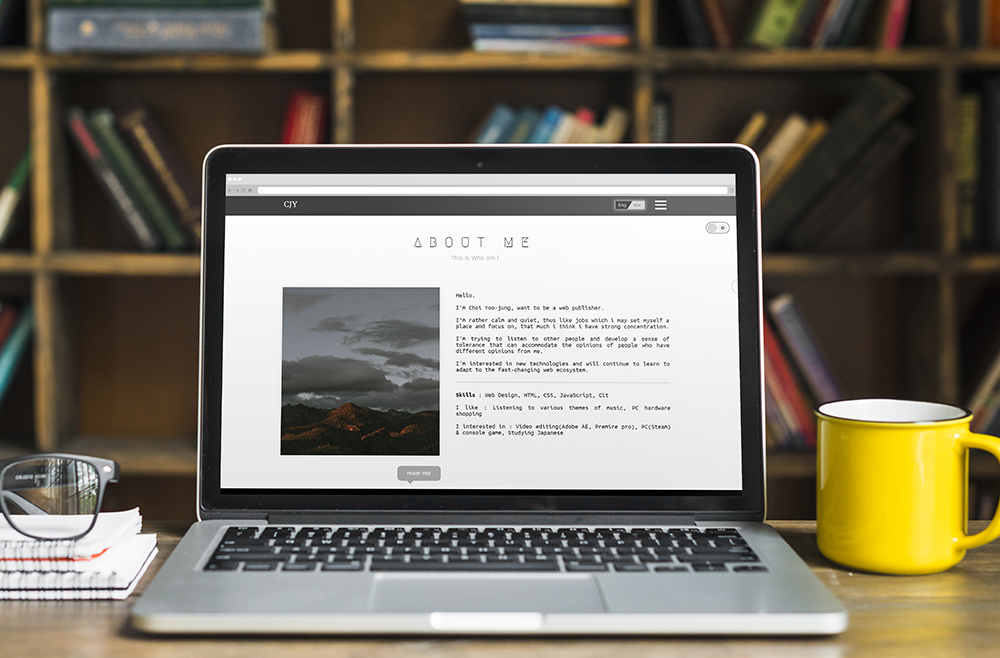
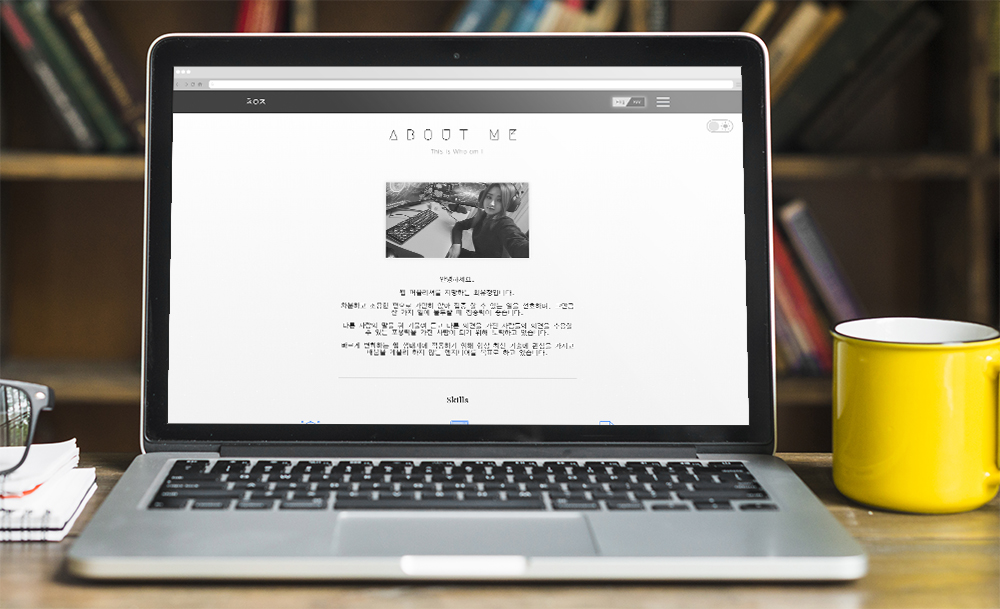
profile image replaced

diff --git a/css/about.css b/css/about.css
@@ -30,10 +30,11 @@ body.load_complete{
     transform: translateX(-50%);
     width: 400px;
     height: 230px;
-    background: url(https://source.unsplash.com/random) no-repeat center;
+    background: url(../images/about_me.jpg) no-repeat center;
     background-size: cover;
     box-shadow: 0px 0px 10px 1px rgba(144, 144, 144, 0.3);
     margin-bottom: 40px;
+    filter: grayscale(100%);
 }
 #intro_text{
     position: relative;
